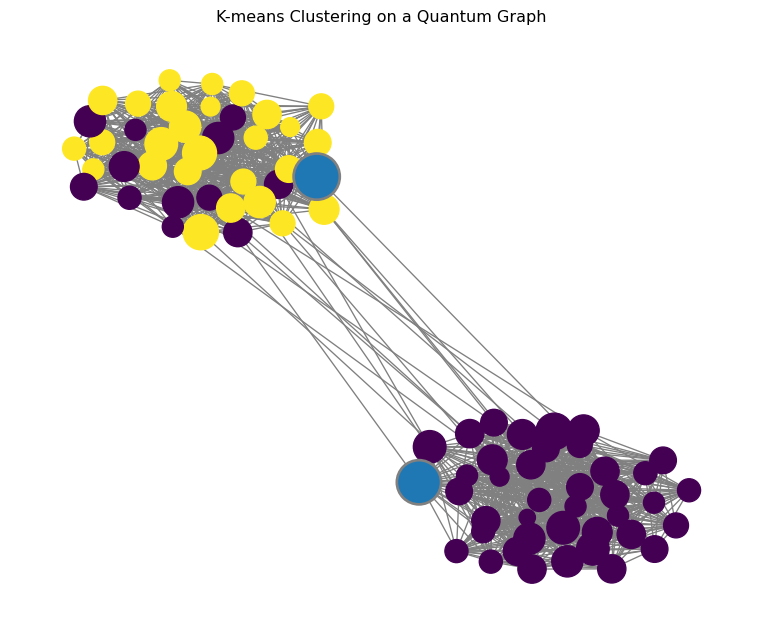
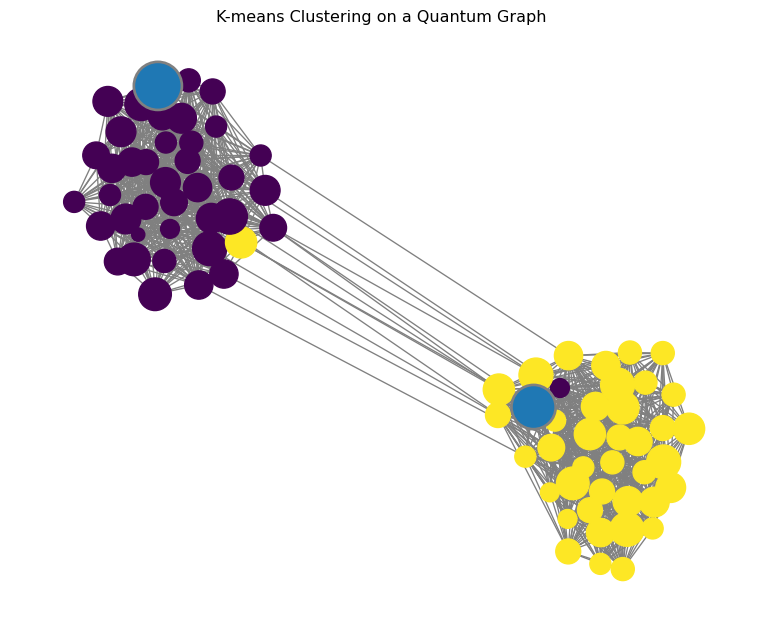
docs: regenerate documentation with Quarto
- Updated generated markdown files with new API
- Regenerated visualization assets

diff --git a/docs/quantum-graphs.md b/docs/quantum-graphs.md
@@ -84,8 +84,9 @@ This is where **precomputing** becomes essential. The `precomputing()`
 method calculates all-pairs shortest paths between nodes using
 Dijkstra’s algorithm. Without this, every distance query would require
 running a pathfinding algorithm—extremely slow for large graphs. All
-[graph generators](generators.md) call `precomputing()` automatically,
-but if you modify a graph after creation, you must call it again.
+[graph generators](generators.md) precompute distances automatically
+(via `precompute=True` by default), but if you modify a graph after
+creation, you must call `precomputing()` again.
 
 ``` python
 from kmeanssa_ng import generate_sbm
@@ -94,7 +95,7 @@ graph = generate_sbm(sizes=[30, 30], p=[[0.8, 0.1], [0.1, 0.8]])
 print(f"Graph diameter (longest shortest path): {graph.diameter:.2f}")
 ```
 
-    Graph diameter (longest shortest path): 3.00
+    Graph diameter (longest shortest path): 2.00
 
 ## Sampling Points
 
@@ -125,7 +126,6 @@ Here’s a concrete example:
 
 ``` python
 from kmeanssa_ng import QuantumGraph
-import networkx as nx
 
 # Create a simple triangle graph
 weighted_graph = QuantumGraph()
@@ -138,7 +138,7 @@ weighted_graph.nodes['A']['weight'] = 1.0
 weighted_graph.nodes['B']['weight'] = 5.0  # High-density area
 weighted_graph.nodes['C']['weight'] = 1.0
 
-weighted_# Distances precomputed automatically
+weighted_graph.precomputing()  # Required after manual graph construction
 
 # Sample points - more will appear near node B
 weighted_points = weighted_graph.sample_points(1000)
@@ -158,9 +158,9 @@ for node in ['A', 'B', 'C']:
 ```
 
     Observations per node (approximate):
-      Node A (weight=1.0): 142 observations
-      Node B (weight=5.0): 716 observations
-      Node C (weight=1.0): 142 observations
+      Node A (weight=1.0): 139 observations
+      Node B (weight=5.0): 710 observations
+      Node C (weight=1.0): 151 observations
 
 You should see approximately a 1:5:1 ratio matching the node weights
 (A=1.0, B=5.0, C=1.0). Points are sampled proportionally to the combined
@@ -175,9 +175,10 @@ When using quantum graphs for clustering, remember:
 **Use generators**: The [graph generators](generators.md) handle all
 requirements automatically. Manual construction is rarely necessary.
 
-**Precomputing is mandatory**: Always call `precomputing()` after
-creating or modifying a graph. This caches shortest paths and is
-required for distance computation. Generators do this automatically.
+**Precomputing is automatic**: All generators precompute distances by
+default (`precompute=True`). If you manually construct a graph or modify
+it after creation, call `precomputing()` to update the cached shortest
+paths.
 
 **Connectivity matters**: The graph must be connected. For random graphs
 (e.g., Erdős-Rényi), you may need to extract the largest connected

diff --git a/docs/quickstart.md b/docs/quickstart.md
@@ -34,10 +34,9 @@ graph = generate_sbm(
     ],
 )
 
-# Essential: precompute shortest paths.
+# Note: Distances are automatically precomputed by default.
 # The algorithm relies on distances between points on the graph,
-# so pre-calculating all-pairs shortest paths is a required optimization.
-# Distances precomputed automatically
+# so generate_sbm() precomputes all-pairs shortest paths automatically.
 ```
 
 ## 2. Define the Data Distribution
@@ -86,8 +85,8 @@ for center in centers:
 ```
 
     Cluster centers (position in edge):
-    Center near node 64 [edge (64, 78), pos=0.000]
-    Center near node 7 [edge (7, 14), pos=0.000]
+    Center near node 77 [edge (77, 68), pos=0.000]
+    Center near node 26 [edge (26, 24), pos=0.000]
 
 ## 4. Visualize the Results
 

diff --git a/docs/custom-spaces.md b/docs/custom-spaces.md
@@ -126,9 +126,8 @@ Key responsibilities: - `distance`: The metric $d(p_1, p_2)$. -
 `sample_points` and `sample_centers`: Factory methods for creating
 points and centers. - `sample_kpp_centers`: An implementation of the
 k-means++ initialization strategy, which is crucial for good
-performance. - `compute_clusters` and `calculate_energy`: Methods
-for assigning points to clusters and calculating the total k-means
-energy.
+performance. - `compute_clusters` and `calculate_energy`: Methods for
+assigning points to clusters and calculating the total k-means energy.
 
 ## Step 4: Use the Algorithm
 